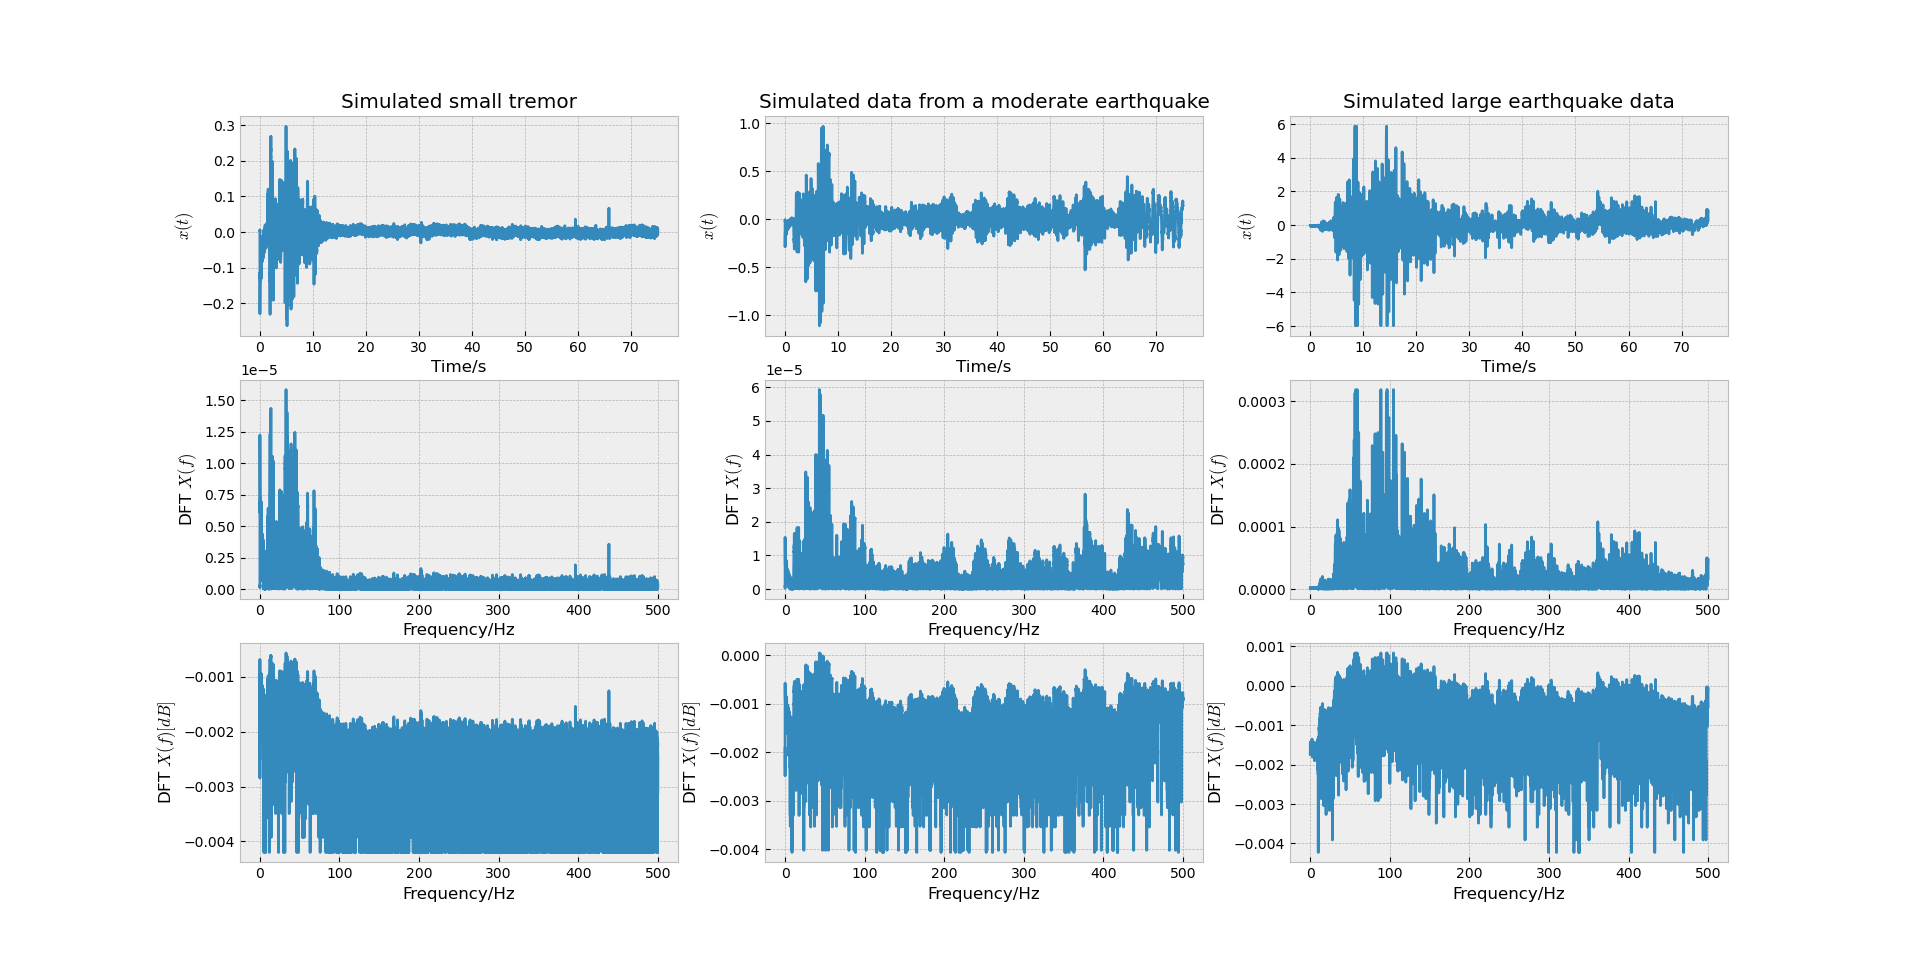
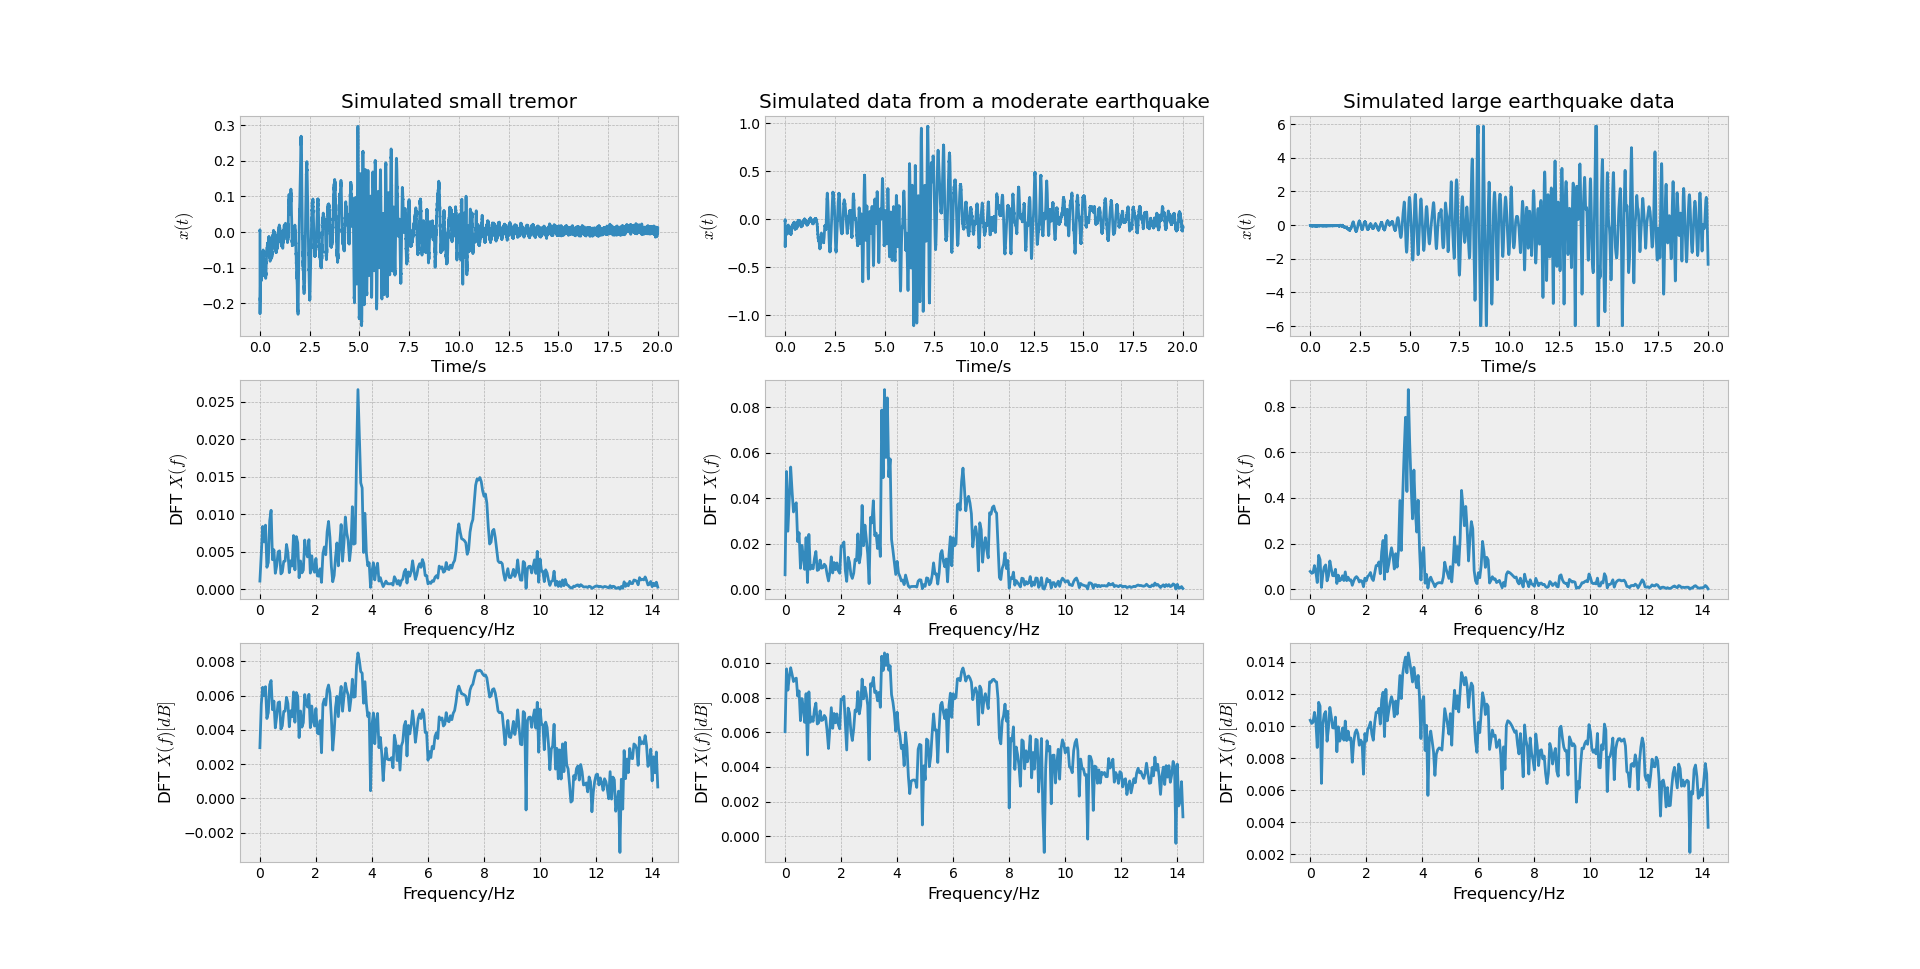
fixes

diff --git a/windowing.py b/windowing.py
@@ -4,13 +4,12 @@ import scipy.signal as signal
 from scipy.fft import fft
 plt.style.use("bmh")
 
-N = 80000  # number of samples
+N = 800000  # number of samples
 fs = 1000  # sampling frequency
 max_f = 10  # max frequency plotted
 decibels = True
 stem_plot = True
-window = np.blackman(N)  # windowing function
-# window = None
+window = "Hamming"  # windowing function
 
 n = np.arange(0.0, N)
 T = 1.0 / fs
@@ -18,14 +17,22 @@ t = n*T
 delta_f = fs/N
 
 
-y = np.sin(np.pi * 2.0*np.pi*t) + 0.25*np.sin(5.5 * 2.0*np.pi*t)
-# y = 0.25*np.sin(5.5 * 2.0*np.pi*t)
-if window is not None:
-    y = np.multiply(y, window)
+y = np.sin(np.pi * 2.0*np.pi*t) + 0.25*np.sin(3.25 * 2.0*np.pi*t)
+windows = {
+    "Rectangular": np.ones(N),
+    "Hanning": np.hanning(N),
+    "Hamming": np.hamming(N),
+    "Bartlett": np.bartlett(N),
+    "Blackman": np.blackman(N),
+    "Kaiser": np.kaiser(N, 14)
+}
+y_win = np.multiply(y, windows[window])
 yf = np.abs(fft(y))
+yf_win = np.abs(fft(y_win))
 
 with np.errstate(divide='ignore', invalid='ignore'):
     ydb = 20 * np.log10(yf)
+    ydb_win = 20 * np.log10(yf_win)
 nf = np.arange(0, int(max_f / delta_f))
 ff = nf * fs/N
 
@@ -46,7 +53,8 @@ else:
 ax[1].set_xlabel("Frequency/Hz")
 ax[1].set_ylabel(f"DFT $X(f)$")
 if decibels:
-    ax[2].plot(ff, ydb[:int(max_f / delta_f)])
+    ax[2].plot(ff, ydb[:int(max_f / delta_f)], label="Un-Windowed")
+    ax[2].plot(ff, ydb_win[:int(max_f / delta_f)], label=f"{window} Windowed")
     ax[2].set_xlabel("Frequency/Hz")
     ax[2].set_ylabel(f"DFT $X(f)$ [dB]")
 

diff --git a/test.py b/test.py
@@ -1,14 +1,44 @@
-from scipy.fft import fft, fftfreq
-import numpy as np
-# Number of sample points
-N = 600
-# sample spacing
-T = 1.0 / 800.0
-x = np.linspace(0.0, N*T, N, endpoint=False)
-y = np.sin(50.0 * 2.0*np.pi*x) + 0.5*np.sin(80.0 * 2.0*np.pi*x)
-yf = fft(y)
-xf = fftfreq(N, T)[:N//2]
+import scipy.io
 import matplotlib.pyplot as plt
-plt.plot(xf, 2.0/N * np.abs(yf[0:N//2]))
-plt.grid()
+import numpy as np
+from scipy.fft import fft, fftfreq
+plt.style.use("bmh")
+
+
+data = "small"
+
+
+mat = scipy.io.loadmat(f'./data/{data}.mat')
+y = np.concatenate( mat["f0"][0:6000], axis=0)
+fs = int(mat["samplerate"][0][:-3])
+title = mat["dataset"][0]
+N = len(y)
+print(y)
+n = np.arange(0.0, N)
+T = 1.0 / fs
+t = n*T
+delta_f = fs/N
+
+yf = np.abs(fft(y))
+# print(yf)
+with np.errstate(divide='ignore', invalid='ignore'):
+    ydb = 20 * np.log10(yf)
+ff = fftfreq(N, T)[:N//30]
+
+fig, ax = plt.subplots(3, 1)
+ax[0].plot(t, y)
+ax[0].set_xlabel("Time/s")
+ax[0].set_ylabel("$x(t)$")
+ax[0].set_title(title)
+
+ax[1].plot(ff, yf[:N//30])
+ax[1].set_xlabel("Frequency/Hz")
+
+ax[1].set_ylabel(f"DFT $X(f)$")
+ax[2].set_ylabel(f"DFT $X(f) [dB]$")
+
+ax[2].plot(ff,  ydb[:N//30])
+ax[2].set_xlabel("Frequency/Hz")
+
+plt.legend()
 plt.show()

diff --git a/tremor_all.py b/tremor_all.py
@@ -10,10 +10,12 @@ fig, ax = plt.subplots(3, 3)
 
 def plot(ax, data, i):
     mat = scipy.io.loadmat(f'./data/{data}.mat')
-    y = mat["f0"]
+    y = mat["f0"][:10000]
+    y = np.concatenate(y, axis=0)
     fs = int(mat["samplerate"][0][:-3])
     title = mat["dataset"][0]
     N = len(y)
+    cutter = N//35
 
     n = np.arange(0.0, N)
     T = 1.0 / fs
@@ -22,18 +24,18 @@ def plot(ax, data, i):
     yf = np.abs(fft(y))
     with np.errstate(divide='ignore', invalid='ignore'):
         ydb = 20 * np.log10(yf)
-    nf = np.arange(0, N)
+    nf = np.arange(0, N)[:cutter]
     ff = nf * fs/N
 
     ax[0][i].plot(t, y)
     ax[0][i].set_xlabel("Time/s")
     ax[0][i].set_ylabel("$x(t)$")
     ax[0][i].set_title(title)
-    ax[1][i].plot(ff, 2.0/N * yf[:N])
+    ax[1][i].plot(ff, 2.0/N * yf[:cutter])
     ax[1][i].set_xlabel("Frequency/Hz")
     ax[1][i].set_ylabel(f"DFT $X(f)$")
     ax[2][i].set_ylabel(f"DFT $X(f) [dB]$")
-    ax[2][i].plot(ff, 2.0/N * ydb[:N])
+    ax[2][i].plot(ff, 2.0/N * ydb[:cutter])
     ax[2][i].set_xlabel("Frequency/Hz")
 
 

diff --git a/tremor_fft.py b/tremor_fft.py
@@ -9,20 +9,21 @@ data = "small"
 
 
 mat = scipy.io.loadmat(f'./data/{data}.mat')
-y = mat["f0"]
+y = np.concatenate( mat["f0"][0:6000], axis=0)
 fs = int(mat["samplerate"][0][:-3])
 title = mat["dataset"][0]
 N = len(y)
-
+print(y)
 n = np.arange(0.0, N)
 T = 1.0 / fs
 t = n*T
 delta_f = fs/N
 
 yf = np.abs(fft(y))
+# print(yf)
 with np.errstate(divide='ignore', invalid='ignore'):
     ydb = 20 * np.log10(yf)
-ff = fftfreq(N, T)[:N//2]
+ff = fftfreq(N, T)[:N//30]
 
 fig, ax = plt.subplots(3, 1)
 ax[0].plot(t, y)
@@ -30,13 +31,13 @@ ax[0].set_xlabel("Time/s")
 ax[0].set_ylabel("$x(t)$")
 ax[0].set_title(title)
 
-ax[1].plot(ff,  yf[:N//2])
+ax[1].plot(ff, yf[:N//30])
 ax[1].set_xlabel("Frequency/Hz")
 
 ax[1].set_ylabel(f"DFT $X(f)$")
 ax[2].set_ylabel(f"DFT $X(f) [dB]$")
 
-ax[2].plot(ff,  ydb[:N//2])
+ax[2].plot(ff,  ydb[:N//30])
 ax[2].set_xlabel("Frequency/Hz")
 
 plt.legend()
